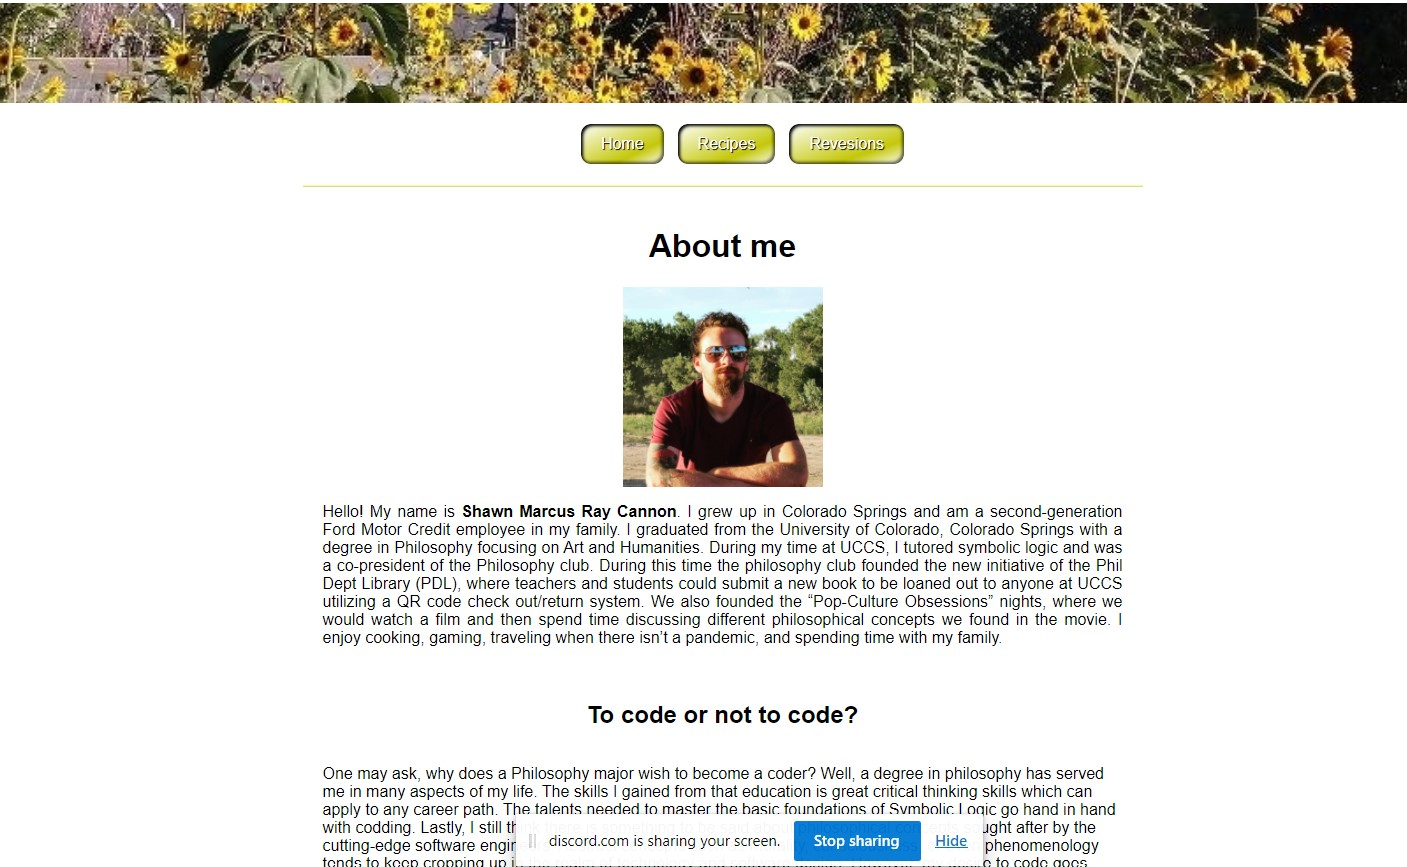
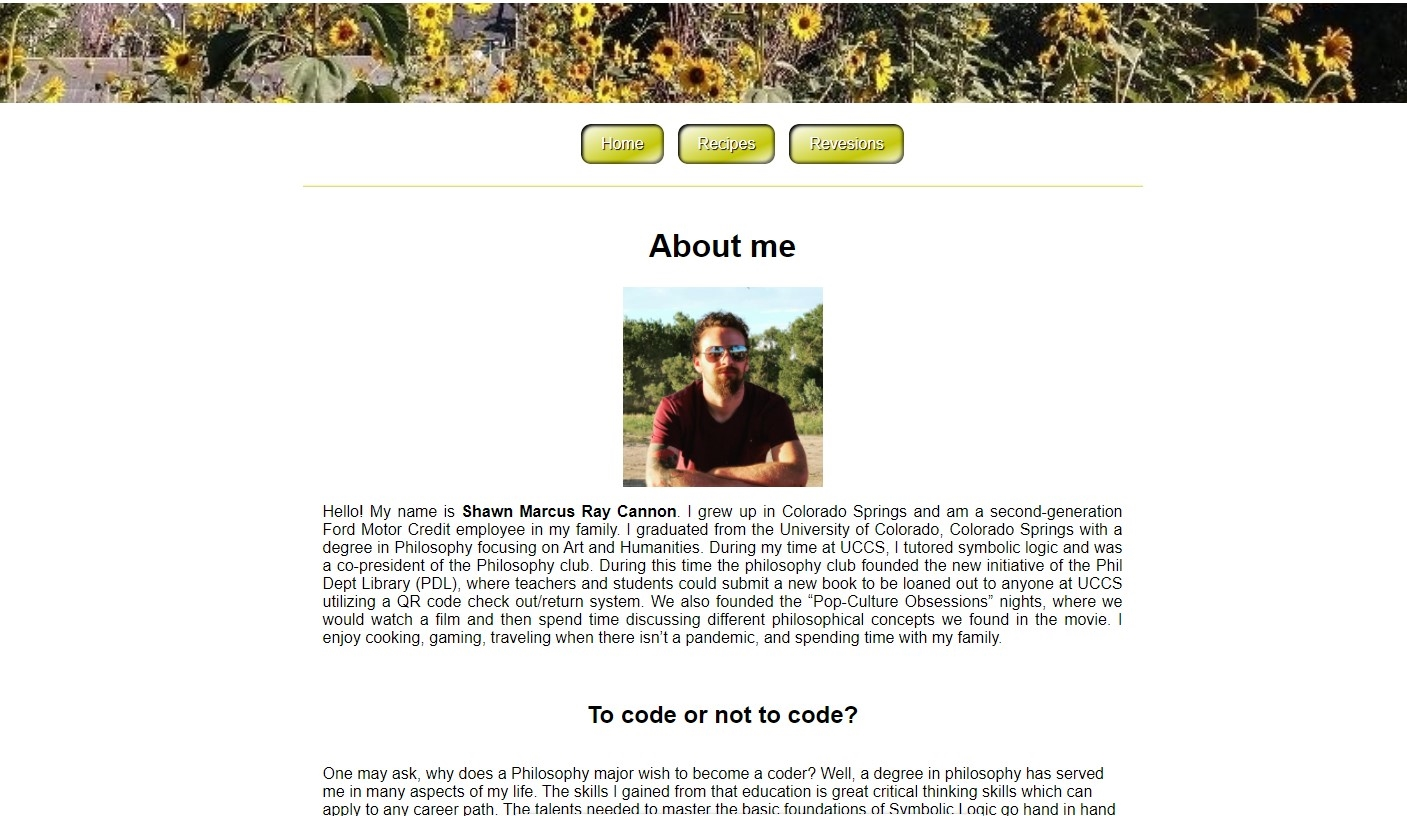
Add files via upload

Changed region(s): [[0.2139, 0.2757, 0.7946, 1.0], [0.0, 0.0, 1.0, 0.2451]]

diff --git a/recipe.html b/recipe.html
@@ -1,19 +1,13 @@
 <!DOCTYPE html>
 <html lang="en">
-<head>
-    <meta charset="UTF-8">
-    <meta http-equiv="X-UA-Compatible" content="IE=edge">
-    <meta name="viewport" content="width=device-width, initial-scale=1.0">
-    <title>Abotu Shawn</title>
-    <link rel="stylesheet" href="style.css">
-    <style>
-
- 
-
-
-
-    </style>
-</head>
+    <head>
+        <meta charset="UTF-8">
+        <meta http-equiv="X-UA-Compatible" content="IE=edge">
+        <meta name="viewport" content="width=device-width, initial-scale=1.0">
+        <title>About Shawn</title>
+        <link rel="stylesheet" href="style.css" type="text/css">
+        <link rel="icon" type="image/x-icon" href="favicon.ico">
+    </head>
 <header class="mainhead">
     <nav class="navbar">
     
@@ -29,7 +23,7 @@
 <body>
   <div id="Recipe">
 <h1 style="text-align: center"> Recipe page</h1>
-<p> I have chosen two recipes to share on my page. The first is going to be a delicious chicken marsala recipe. I learned this recipe from my step-father, Martin, and have added a few tips after the recipe. It is best served with pasta, rice, or mashed potatoes. It is best paired with a dry red wine or a whiskey. I have also included the recipe for the "Midnight Mule." This is not recomended to be paired with your meal. Rather, it is a pleasent after dinner cocktail. This is a spin on the classic Moscow Mule which my significant other, Allison, and I came up with ourselves. The ingredient's name brand do not matter, and I have included images to assist you. Enjoy!</p>
+<p> I have chosen two recipes to share on my page. The first is going to be a delicious chicken marsala recipe. I learned this recipe from my stepfather, Martin, and have added a few tips after the recipe. It is best served with pasta, rice, or mashed potatoes, and best paired with a dry red wine or whisky. I have also included the recipe for the "Midnight Mule." This is not recommended to be paired with your meal. Rather, it is a pleasant after dinner cocktail. This is a spin on the classic Moscow Mule which my significant other, Allison, and I came up with ourselves. The ingredient's name brand does not matter. I have included images to assist you. Enjoy!</p>
 
 
 <h2 style="text-align: center;">Chicken Marsala Recipe</h2>
@@ -39,10 +33,10 @@
          <li>1-1 ½ lbs of boneless chicken breast</li>
          <li>3 tbsp flour</li>
          <li>Salt: 2tbsp recommend</li>
-         <li>Pepper:2 tbsp recomended</li>
+         <li>Pepper:2 tbsp recommended</li>
          <li>3 tbsp of butter</li>
          <li>1 tbsp olive oil</li>
-         <li>8 oz pre sliced mushrooms (bella or button)</li>
+         <li>8 oz pre sliced mushrooms (belle or button)</li>
          <li>1 finely cut shallot</li>
          <li>2 heaps minced garlic</li>
          <li>2/3 cup chicken broth</li>
@@ -50,7 +44,7 @@
          <li>2/3 cup heavy cream (recommend to purchase a half pint)</li>
          <li>2 teaspoons thyme (recommend fresh)</li>
          <li>2 tbsp parsley (Garnish/optional)</li>
-         <li>Optional : Burbon or a dry Red wine</li>
+         <li>Optional: Bourbon or a dry red wine</li>
      </ul>
 
  </p>
@@ -65,7 +59,7 @@
             <li><div class="step"><img src="images/chicken-flwrd.jpg" alt="flower chicken" ><p>Place flour, salt, Pepper, in Ziplock (recommend Gallon/freezer). Add all chicken to bag and shake thoroughly</p>
             </div> </li>
 
-            <li><div class="step"><img src="images/buttr-oil.jpg" alt="melt butter with oil"><p>Heat olive oil and 2 tbsp of butter in Larger NON STICK skillet over med-high</p>
+            <li><div class="step"><img src="images/buttr-oil.jpg" alt="melt butter with oil"><p>Heat olive oil and 2 tbsp of butter in Larger NON-STICK skillet over med-high</p>
             </div> </li>
 
             <li><div class="step"><img src="images/cookchx.jpg" alt="cook clowered chicken" ><p>Place flour dusted chicken in pan (shake extra flour off)</p>
@@ -77,10 +71,10 @@
             <li><div class="step"><img src="images/pile of mush.jpg" alt="cook mushrroms" ><p>Transfer to plate and set aside. In the same pan add remaining butter and add mushrooms</p>
             </div></li>
 
-            <li><div class="step"><img src="images/add stuff.jpg" alt="add herbs"> <p>Add Shallots, garlic, and ¼ teaspoon of saltCook 1-2 minutes</p>
+            <li><div class="step"><img src="images/add stuff.jpg" alt="add herbs"> <p>Add Shallots, garlic, and ¼ teaspoon of salt. Cook 1-2 minutes</p>
             </div></li>
 
-            <li><div class="step"><img src="images/addingliquids.jpg" alt="add liquids" ><p>Add broth, wine, heavy cream, thyme, and salt and pepper to taste. Recommend using a wood spoon for scrapping any browned funguys from bottom of pan. Bring liquid to a boil, reduce heat to medium</p>
+            <li><div class="step"><img src="images/addingliquids.jpg" alt="add liquids" ><p>Add broth, wine, heavy cream, thyme, and salt and pepper to taste. Recommend using a wood spoon for scrapping any browned mushrooms from bottom of pan. Bring liquid to a boil, reduce heat to medium</p>
             </div></li>
 
             <li><div class="step"><img src="images/thickening sauce.jpg" alt="thicken sauce"><p>Continue to gently boil until sauce is reduced to ½</p>
@@ -100,10 +94,10 @@
         This Chicken Marsala recipe is straight forward and simple. You can follow the steps above and create a wonderful dish! However, I added five optional steps and advise to make your dinner feel like it is served at a five-star restaurant;
         <br>
         <ul style="list-style: upper-roman;">
-            <li>If you want your sauce to be a bit thicker, you can add 2 teaspoons of corn starch during the thickening process, at the risk of loosing a little flavor. It is important to whisk corn starch thoroughly to create a thick sauce without clumps.</li>
+            <li>If you want your sauce to be a bit thicker, you can add 2 teaspoons of corn starch during the thickening process, at the risk of losing a little flavor. It is important to whisk corn starch thoroughly to create a thick sauce without clumps.</li>
             <li>You can also add a liquor to your sauce to give it an extra kick. It is recommended to use a dry red wine or whiskey.</li>
-            <li>This dish is best served this pasta, rice, or mashed potatoes. I find that the mashed potatoes offer a great complement to the overall texture and taste of the sauce. There is also the added benefit of having already opened a heavy whipping cream. The remaining cream from a half pint container is just enough to add to your potatoes to make them nice and fluffy.</li>
-            <li>You may have noticed a little extra green in our final product. This is a bit of spinach that is lightly sautaed and salted. You can add the spinach if you desire some vegitables with your marsala.</li>
+            <li>As said above, this dish is best served this pasta, rice, or mashed potatoes. I find that the mashed potatoes offer a great complement to the overall texture and taste of the sauce. There is also the added benefit of having already opened a heavy whipping cream. The remaining cream from a half pint container is just enough to add to your potatoes to make them nice and fluffy.</li>
+            <li>You may have noticed a little extra green in our final product. This is a bit of spinach that is lightly sautéed and salted. You can add the spinach if you desire some vegetables with your marsala.</li>
             <li>The easiest step to miss in this process is adding thyme. If you forget that your marsala will be lacking in flavor. Much like in coding; sometimes missing a seemingly insignificant step can have disappointing results.</li>
         </ul>
     </div>
@@ -120,7 +114,7 @@
             <li>¼ lemon</li>
             <li>Ginger beer</li>
             <li>Copper Mug (optional)</li>
-            <li>Shaker - normally used for other drinks shaking our liqour and syrup together will be necessary</li>
+            <li>Shaker - normally used for other drinks shaking our liquor and syrup together will be necessary</li>
         </ul>
     </p>
      <div id="recipe-box">
@@ -147,7 +141,7 @@
             </li>
                 
             <li><div class="step">
-                <p>Pour into mug with grated top still on shaker to avoid ice and pips</p>
+                <p>Pour into mug with grate top still on shaker to contain ice and pips</p>
                      <img src="images/pourdrink.jpg" alt="pour drink"></div>
             </li>
                 
@@ -163,12 +157,12 @@
 
         </ol>
     </div>
-    <p style="font-size: smaller;">**Concerning mule ingredients: If you are unnable to find "Moanin syrup,"" look at your <a href="https://www.google.com/search?q=restaurant+supply+store+near+me&sa=X&ved=2ahUKEwjHh_nl1sH1AhVVJjQIHVPjDE4QuzF6BAgBEAI&biw=1452&bih=736&dpr=1.25">local kitchen supply store</a>, there is bound to be a lavander syrup you can use there. Ginger beer is a non-achoolic mixer. I would not recomend drinking it alone. I highly recomend to find the ginger beer that is best for you. Fever tree is my personal favorite because of it's tolerable carbination and extra spice. That being said, it is a carbonated drink do not attempt to add shake. Similarly, there are other blackberry moonshine apart from 'Old Smokey.' Allison and I wish you the best of luck in making this drink your own!</p>
+    <p style="font-size: smaller;">**Concerning mule ingredients: If you are unable to find "Moanin syrup," look at your <a href="https://www.google.com/search?q=restaurant+supply+store+near+me&sa=X&ved=2ahUKEwjHh_nl1sH1AhVVJjQIHVPjDE4QuzF6BAgBEAI&biw=1452&bih=736&dpr=1.25" target="_balnk">local kitchen supply store</a>, there is bound to be a lavender syrup you can use there. Ginger beer is a non-acholic mixer. I would not recommend drinking it alone. I highly recommend finding the ginger beer that is best for you. Fever Tree is my personal favorite because of its tolerable carbonation and extra spice. That being said, this is a carbonated drink do not attempt to add shake. Similarly, there are other blackberry moonshine apart from 'Old Smokey.' Allison and I wish you the best of luck in making this drink your own!</p>
 
   </div>
     
 </body>
 <footer>
-    <p>All contect created by Shawn Cannon, 2022, for the Ford Credit L2C pilot program.</p>
+    <p>All content and images created by Shawn Cannon, 2022, for the Ford Credit L2C pilot program.</p>
   </footer>
 </html>

diff --git a/index.html b/index.html
@@ -5,8 +5,10 @@
     <meta http-equiv="X-UA-Compatible" content="IE=edge">
     <meta name="viewport" content="width=device-width, initial-scale=1.0">
     <title>About Shawn</title>
-    <link rel="stylesheet" href="style.css">
+    <link rel="stylesheet" href="style.css" type="text/css">
+    <link rel="icon" type="image/x-icon" href="favicon.ico">
 </head>
+
 <header class="mainhead">
   <nav class="navbar">
     
@@ -17,20 +19,24 @@
   </ul>
 </nav>
 </header>
+
 <body>
   
   
   <div id="main">
 <h1><strong>Shawn Marcus Ray Cannon</strong></h1>
-
- <img src="images/selfie2.jpg" alt="Picture of Shawn" height="300" width="300" style="float: left; padding: 0px 3px 0px 0px" >
+<img src="images/selfie2.jpg" alt="my image" title="This is a picture of Shawn" style="height: 250px;">
 
     <p style="text-align: justify;">
-      Hello, and welcome to my page! This is s simple webpage to display a few of the skills I have picked up over the last six weeks thanks to the new pilot program at Ford Motor Credit. I grew up in Colorado Springs and am a second-generation Ford Motor Credit employee in my family. I graduated from the University of Colorado, Colorado Springs with a degree in Philosophy focusing on Art and Humanities. During my time at UCCS, I tutored Symbolic Logic and was a co-president of the <a href="https://scribe.uccs.edu/philosophy-club-plan-for-future/">Philosophy Club.</a> I enjoy cooking, gaming, traveling when there isnt a pandemic, and spending time with my family. </p>
-    <br>
+      Hello, and welcome to my page! This is a simple webpage to display a few of the skills I have picked up over the last six weeks thanks to the new pilot program at Ford Motor Credit. I grew up in Colorado Springs and am a second-generation Ford Motor Credit employee in my family. I have a loving girlfriend, Allison, and am a proud dog dad of one Mr.Clyde. I graduated from the University of Colorado, Colorado Springs with a degree in Philosophy focusing on Art and Humanities. During my time at UCCS, I tutored Symbolic Logic and was a co-president of the <a href="https://scribe.uccs.edu/philosophy-club-plan-for-future/" target="_blank">Philosophy club</a>. I enjoy cooking, gaming, traveling when there isn’t a pandemic, and spending time with my family. </p>
+      <div>
+        <img src="images/selfie-2.jpg" alt="Picture of Shawn"  style="padding: 0px 3px 0px 0px; height: 250px;" title="This is Shawn & Allison"> 
+        <img src="images/selfie-3.jpg" alt="other picture of shawn" style="padding: 0px 3px 0px 0px; height: 250px; " title="This is Shawn">
+        <img src="images/doggo.jpg" alt="This is Clyde" style="padding: 0px 3px 0px 0px; height: 250px;" title="this is Clyde">
+       </div>
 <h2>To code or not to code?</h2>
     <p id="myCodeWriting">
-      One may ask, why does a Philosophy major turned Ford employee wish to become a coder? Well, a degree in philosophy has served me in many aspects of my life. The skills I gained from that education includes being able to have an interesting conversation with almost anyone and, more importantly, great critical thinking skills which can apply to any career path. For example, the skills needed to master the basic foundations of Symbolic Logic go hand in hand with coding. Lastly, there is something to be said about philosophical concepts needed in cutting-edge technology. Abstract concepts such as morality and consciousness tends to keep cropping up in the realm of technology and software design. However, my desire to code goes beyond an interesting connection to an ivory tower degree. I had always wanted to go into coding since I started teaching myself HTML as a child. Yet, when I went to a teacher to ask for advise on how to start working towards making websites, software, and shaping the future of the internet, I was told that there was no future in coding. Small and impressionable I gave up on my dream of becoming a software engineer. We now live in a world which demands talented and creative coders; I believe that my talents and passion will be well placed in this role. For me, there is no greater joy than taking a difficult puzzle and solving it.
+      One may ask, why does a Philosophy major turned Ford Credit employee wish to become a coder? Well, a degree in philosophy has served me in many aspects of my life. The skills I gained from that education includes being able to have an interesting conversation with almost anyone and, more importantly, great critical thinking skills which can apply to any career path. For example, the skills needed to master the basic foundations of Symbolic Logic go hand in hand with coding. Lastly, there is a great deal of philosophical concepts found in cutting-edge technology. Abstract concepts such as morality and consciousness tend to keep cropping up in the realm of technology and software design. Already having knowledge and some understanding of these concepts will provide an advantage to any coder. However, my desire to code goes beyond an interesting connection to an ivory tower degree. I had always wanted to go into coding since I started teaching myself HTML as a child. Yet, when I went to a teacher to ask for advise on how to start working towards making websites, software, and shaping the future of the internet, I was told that there was no future in coding. Small and impressionable I gave up on my dream of becoming a software engineer. We now live in a world which demands talented and creative coders; I believe that my talents and passion will be well placed in this role. For me, there is no greater joy than taking a difficult puzzle and solving it.
     </p>
     <P> Want to chat? You can reach me at <a href="mailto:shawnmrcannon@yahoo.com" subject="subject text">my email</a>!</P>
 
@@ -38,6 +44,6 @@
 
 </body>
 <footer>
-  <p>All contect created by Shawn Cannon, 2022, for the Ford Credit L2C pilot program.</p>
+  <p>All content and images created by Shawn Cannon, 2022, for the Ford Credit L2C pilot program.</p>
 </footer>
 </html>

diff --git a/rev.html b/rev.html
@@ -1,11 +1,12 @@
 <!DOCTYPE html>
 <html lang="en">
-<head>
+  <head>
     <meta charset="UTF-8">
     <meta http-equiv="X-UA-Compatible" content="IE=edge">
     <meta name="viewport" content="width=device-width, initial-scale=1.0">
     <title>About Shawn</title>
-    <link rel="stylesheet" href="style.css">
+    <link rel="stylesheet" href="style.css" type="text/css">
+    <link rel="icon" type="image/x-icon" href="favicon.ico">
 </head>
 <header class="mainhead">
   <nav class="navbar">
@@ -25,18 +26,18 @@
 
 <h1>Changes</h1>
  
-    <div id="Rev-box"><p> For this project I chose to ask Allison, previously mentioned, what changes I could make. Allison and I both enjoy finding new meales to try out. When I first approached her with the chicken marsala recipe page payout we reflected on how annoying it can be to attmept to navigate the layout of the page. Going back and forth on a long list of instructions is not helpful for when we are actually cooking. So, I abandooned the layout that is normally found on recipe pages, and opted for a box containing the steps of the recipe with a horizontal scroll bar. This made a layout which allows veiwers to see the listed ingredients and the step by step guid simultaniously. I also opted for a more plain background to make for easier reading, and created a border that is a little more simple to create a cleaner page experience.</p>
+    <div id="Rev-box"><p> For this project I chose to ask Allison, previously mentioned, what changes I could make. Allison and I both enjoy finding new meals to try out. When I first approached her with the chicken marsala recipe page layout, we reflected on how annoying it can be to attempt to navigate the layout of the page. Going back and forth on a long list of instructions is not helpful for when we are cooking. So, I abandoned the layout that is normally found on recipe pages, opting for a box containing the steps of the recipe with a horizontal scroll bar. This made a layout which allows viewers to see the listed ingredients and the step-by-step guide simultaneously. I also opted for a plainer background to make for easier reading and created a simple border to create a cleaner page experience.</p>
         <img src="images/ScreenshotRecipevert.jpg" alt="what the recipe page looked like">  
       </div>
     <br>
-    <div id="rev-box-two"> <p> I was very impressed with the banner that was created on the sample site made by Kyle. I wanted to create a similar banner, but with an image of my brother's beautiful sunflower forest. However, Allison pointed out that the image was unnable to remain static and would change with the size of the browser window. Rather than keeping it as "behind" the HTML I opted to place it behind the body element. This not only made a much cleaner outline for the main body box, it also put it in a container which stopped it from being manipulated by the wondow size! </p> <img src="images/backndbring.jpg" alt="stale page"></div>
+    <div id="rev-box-two"> <p> I was very impressed with the banner that was created on the sample site made by Kyle. I wanted to create a similar banner, but with an image of my brother's beautiful sunflower forest. However, Allison pointed out that the image was unable to remain static and would change with the size of the browser window. Rather than keeping it as "behind" the HTML I opted to place it behind the body element. This not only made a much cleaner outline for the main body box, but it also put it in a container which stopped it from being manipulated by the window size! </p> <img src="images/backndbring.jpg" alt="stale page"></div>
     <br>
-    <div id="rev-box-three"><p>Lastely, Allison pointed out how boring my navigation bar was. We remembered that part of what makes a great site or application so enjoyable is how it is  and more than simple lines and text. So I took the old navigation bar, turned them into buttons, and even made the color change. This creates a unique interaction on the site that can make it stand out from those similar to it.</p> <img src="images/navbar.jpg" alt="old nav bar"></div>
+    <div id="rev-box-three"><p>Lastly, Allison pointed out how boring my navigation bar was. We remembered that part of what makes a great site or application so enjoyable is how it is and more than simple lines and text. I took the old navigation bar, turned them into buttons, and even made the color change. This creates a unique interaction on the site that can make it stand out from those similar to it.</p> <img src="images/navbar.jpg" alt="old nav bar"></div>
 
   </div>
     
 </body>
 <footer>
-  <p>All contect created by Shawn Cannon, 2022, for the Ford Credit L2C pilot program.</p>
+  <p>All content and images created by Shawn Cannon, 2022, for the Ford Credit L2C pilot program.</p>
 </footer>
 </html>

diff --git a/style.css b/style.css
@@ -1,8 +1,17 @@
+@media screen and (min-width: 900px) {
+  article {
+    padding: 1rem 3rem;
+    display: flex;
+  }
+}
+
+
 body{
   background-image: url(images/bckgrnd3.jpg);
   background-attachment: fixed;
   background-size: contain;
 }
+
 
 
 /*main page */
